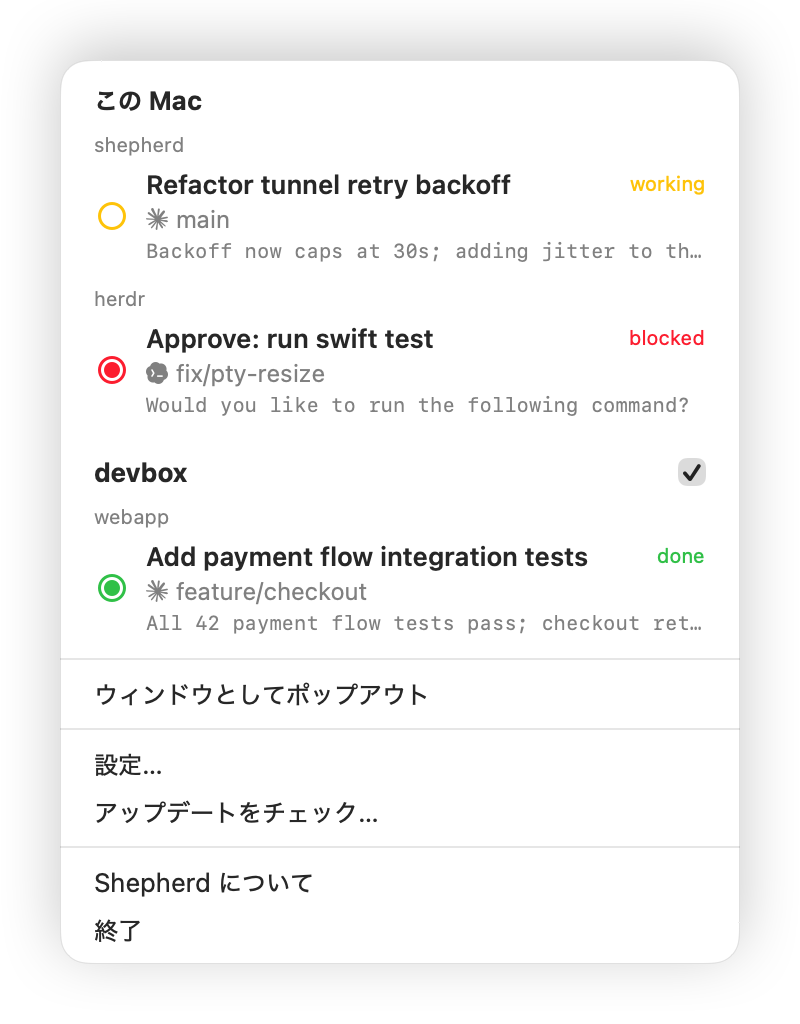
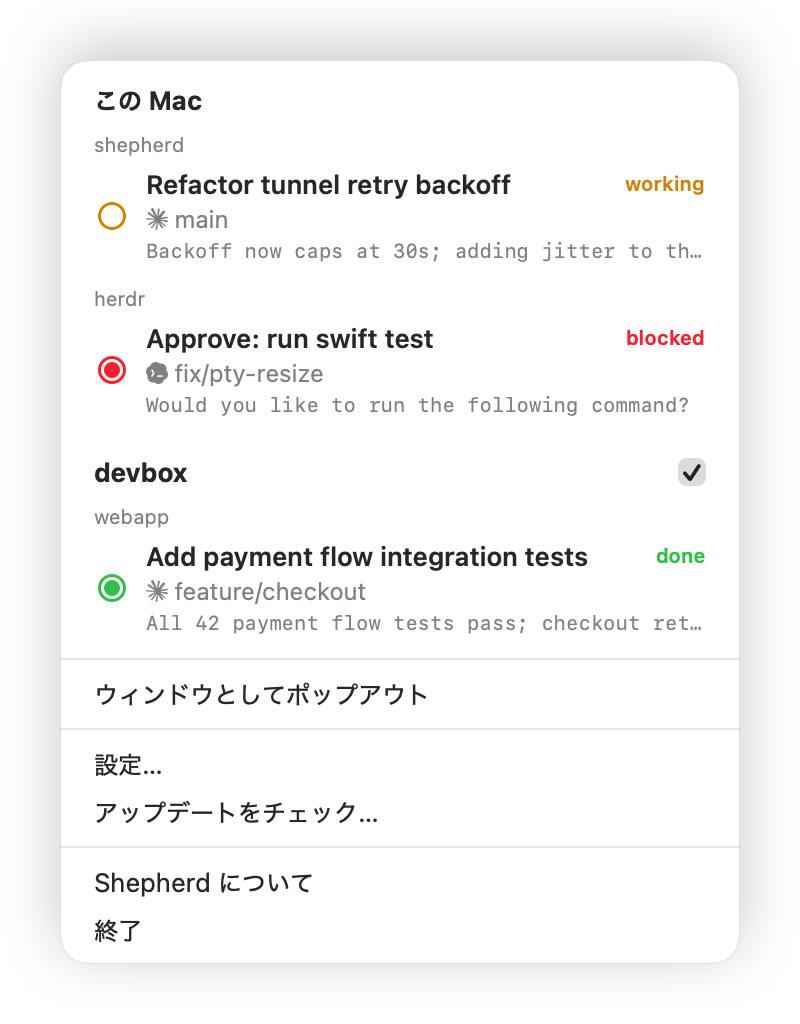
display: make the working status readable in light mode
systemYellow reads at about 1.5:1 against the light menu background,
which left the caption-sized status text barely legible. Light
appearance now uses a deeper yellow (about 2.6:1) for both the status
text and the ○ mark, and the status preset is drawn semibold. Dark
appearance keeps systemYellow.

The circles are stroked with an appearance-dependent color, so they opt
out of NSImage caching: a cached bitmap would keep the color it was
first drawn with after the system switches between light and dark.

diff --git a/Sources/Shepherd/AgentRow.swift b/Sources/Shepherd/AgentRow.swift
@@ -422,8 +422,13 @@ private struct RowTextStyleModifier: ViewModifier {
             // Native menus uniformly invert selected text to the selected
             // foreground color, so only while hovered in menu style we drop the
             // status's semantic color and follow the parent foreground color.
+            //
+            // Semibold: this is the one preset drawn in a saturated hue rather
+            // than a hierarchical style, and at caption size those hues carry
+            // too little contrast against the light menu background. The added
+            // stroke weight restores legibility without darkening the hue.
             content
-                .font(.caption)
+                .font(.caption.weight(.semibold))
                 .foregroundStyle(
                     isMenuHighlighted
                         ? AnyShapeStyle(.primary)
@@ -447,16 +452,20 @@ private extension RowTextStyle {
 
 extension AgentStatus {
     /// Semantic color for each state. Shared by AgentRow's status preset and
-    /// the dots in the pop-out window's header summary. Matches the color
-    /// family of the menu bar circles (StatusIcons: systemYellow / systemGreen
-    /// / systemRed) to keep the visual language consistent.
+    /// the dots in the pop-out window's header summary. Matches the colors the
+    /// circles are stroked with (StatusIcons: statusWorking / systemGreen /
+    /// systemRed) to keep the visual language consistent.
     var indicatorColor: Color {
         switch self {
-        case .working: .yellow
+        case .working: .statusWorking
         case .blocked: .red
         case .done: .green
         case .idle: .secondary
         case .unknown: .gray.opacity(0.5)
         }
     }
+}
+
+private extension Color {
+    static let statusWorking = Color(nsColor: .statusWorking)
 }

diff --git a/Sources/Shepherd/ShepherdApp.swift b/Sources/Shepherd/ShepherdApp.swift
@@ -605,7 +605,7 @@ enum MenuBarIconPresentation {
 enum StatusIcons {
     static let disconnected = circleImage(filled: false, dashed: true, template: true)
     static let quiet = circleImage(filled: false, template: true)
-    static let working = circleImage(color: .systemYellow, filled: false)
+    static let working = circleImage(color: .statusWorking, filled: false)
     static let done = circleImage(color: .systemGreen, filled: true)
     static let blocked = circleImage(color: .systemRed, filled: true)
 
@@ -657,6 +657,24 @@ enum StatusIcons {
             return true
         }
         image.isTemplate = template
+        // The stroke color can be appearance-dependent (statusWorking), and a
+        // cached bitmap would keep the color it was first drawn with after the
+        // system switches between light and dark. Redrawing one circle per
+        // display costs nothing.
+        image.cacheMode = .never
         return image
+    }
+}
+
+extension NSColor {
+    /// Yellow of the working state, shared by the ○ marks and the status text.
+    /// systemYellow reads at about 1.5:1 against the light menu background, too
+    /// little for the caption-sized text beside the mark, so light appearance
+    /// deepens it to about 2.6:1. Dark appearance keeps systemYellow, which
+    /// already stands out there.
+    static let statusWorking = NSColor(name: "statusWorking") { appearance in
+        appearance.bestMatch(from: [.aqua, .darkAqua]) == .darkAqua
+            ? .systemYellow
+            : NSColor(srgbRed: 0.85, green: 0.58, blue: 0.0, alpha: 1)
     }
 }

diff --git a/CHANGELOG.md b/CHANGELOG.md
@@ -1,5 +1,11 @@
 # Changelog
 
+## Unreleased
+
+### Fixed
+
+- The working status text and its ○ mark no longer wash out in light mode.
+
 ## v0.13.0 - 2026-07-25
 
 ### Added
